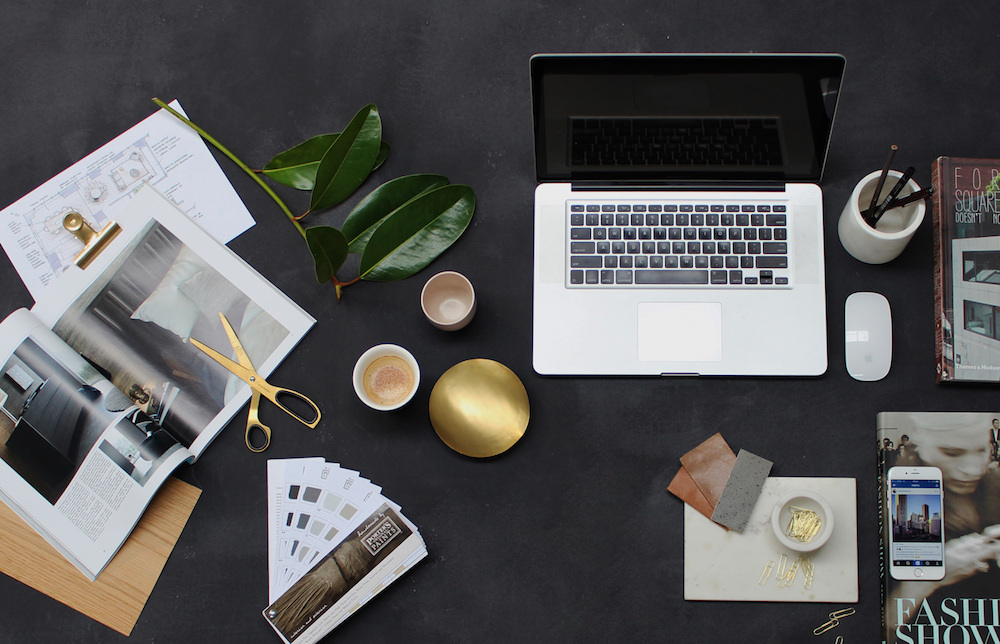
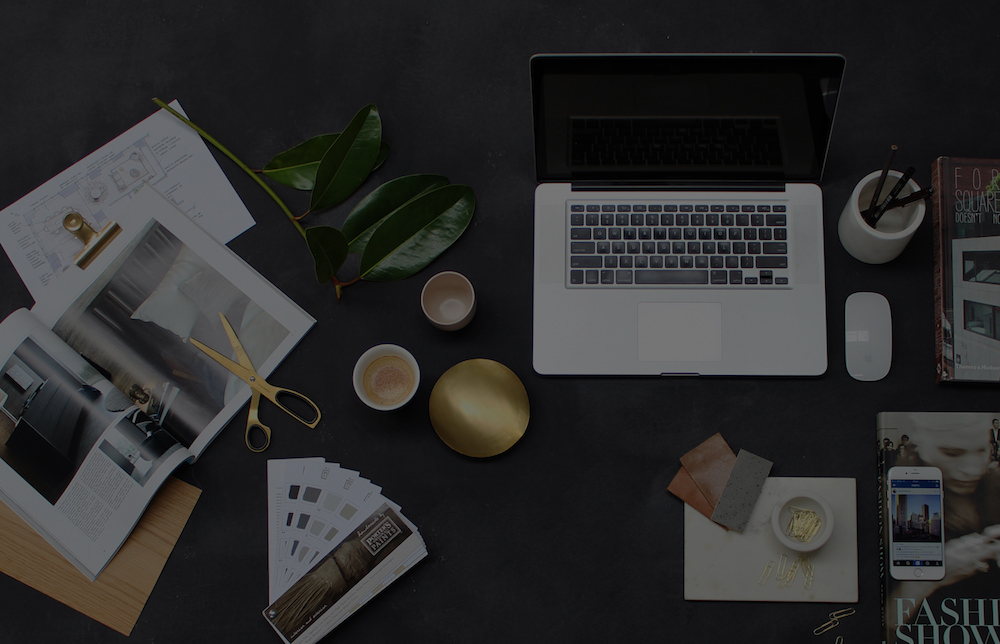
Fix background and video position
Based on feedback [1]

diff --git a/app/index.html b/app/index.html
@@ -18,9 +18,9 @@
     <!-- build:css -->
     <link rel="stylesheet" type="text/css" href="https://cdnjs.cloudflare.com/ajax/libs/slick-carousel/1.5.9/slick.css"/>
     <link rel="stylesheet" type="text/css" href="https://cdnjs.cloudflare.com/ajax/libs/slick-carousel/1.5.9/slick-theme.css"/>
-    <link rel="stylesheet" href="styles/main.css"/>
     <link rel="stylesheet" href="https://cdnjs.cloudflare.com/ajax/libs/material-design-lite/1.0.6/material.min.css"/>
     <link rel="stylesheet" href="https://fonts.googleapis.com/icon?family=Material+Icons"/>
+    <link rel="stylesheet" href="styles/main.css"/>
     <!-- endbuild -->
     
   </head>
@@ -55,8 +55,8 @@
         <div class="mdl-layout__header-row hide-on-scroll">
           <!-- Navigation -->
           <nav class="mdl-navigation">
-            <a class="mdl-navigation__link" href="">FEATURES</a>
-            <a class="mdl-navigation__link" href="">REVIEW</a>
+            <a class="mdl-navigation__link link-on-hover" href="">FEATURES</a>
+            <a class="mdl-navigation__link link-on-hover" href="">REVIEW</a>
             <a class="mdl-navigation__link" href="">
               <button class="mdl-button mdl-js-button mdl-button--raised mdl-button--primary mdl-js-ripple-effect sign-in-button">
                 SIGN IN
@@ -66,9 +66,15 @@
         </div>
       </header>
       <main class="mdl-layout__content">
+        <div class="mdl-grid" id="main">
+          <div class="mdl-cell mdl-cell--12-col" id="title">
+            <h2 class="bold">Your Social Media Command Center</h2>
+            <h5>Manage multiple social media accounts in one place, collaboratively</h5>
+          </div>
+        </div>
         <div class="content">
           <!-- Main slide -->
-          <div id="main-slide">
+          <!-- <div id="main-slide">
             <div class="middle-slide" id="title">
               <h2 class="bold">Your Social Media Command Center</h2>
               <h5>Manage multiple social media accounts in one place, collaboratively</h5>
@@ -79,7 +85,7 @@
                 Your browser does not support the video tag.
               </video>
             </div>
-          </div>
+          </div> -->
 
           <!-- Features part -->
           <div class="mdl-color--white" id="features">
@@ -87,7 +93,7 @@
             <div class="mdl-grid" id="features-grid">
               <div class="mdl-cell mdl-cell--4-col mdl-cell--1-col-phone" id="feature-01">
                 <img class="screen-shoot" src="images/feature01.png"/>
-                <h3 class="feature-name">SCHEDULE & PUBLISH</h3>
+                <h3 class="feature-name">SCHEDULE</h3>
                 <div class="feature-detail">
                   Arrange contents at once and you're done for the week.<br>
                   We'll publish them while you're busy on important stuff.

diff --git a/app/styles/main.scss b/app/styles/main.scss
@@ -4,16 +4,6 @@
 $blue-color: #0091ea;
 
 body {
-  background: #fafafa;
-  font-family: 'Material Icons';
-  font-style: normal;
-  font-weight: 400;
-  src: url(https://example.com/MaterialIcons-Regular.eot); /* For IE6-8 */
-  src: local('Material Icons'),
-       local('MaterialIcons-Regular'),
-       url(https://example.com/MaterialIcons-Regular.woff2) format('woff2'),
-       url(https://example.com/MaterialIcons-Regular.woff) format('woff'),
-       url(https://example.com/MaterialIcons-Regular.ttf) format('truetype'); 
   color: white;
 }
 
@@ -23,6 +13,7 @@ body {
 }
 
 .sign-in-button {
+  background-color: $blue-color !important;
   color: white;
 }
 
@@ -30,32 +21,26 @@ body {
   background: url('../images/bg.jpg') center / cover;
 }
 
-/* Main slide show */
-#main-slide {
-  margin: 70px 0;
+.link-on-hover:hover {
+  color: $blue-color;
+  font-weight: bold;
 }
 
-.slick-slide {
-  text-align: center;
-}
-
-.slick-prev:before {
-  position: absolute;
-  left: 100px;
-}
-
-.slick-next:before {
-  position: absolute;
-  right: 100px;
+/* Title */
+#main {
+  display: table;
 }
 
 #title {
-  padding-top: 100px;
+  height: 550px;
+  text-align: center;
+  display: table-cell;
+  vertical-align: middle;
 }
 
 /* Features */
 #features {
-  padding: 30px;
+  padding: 10px 30px 20px;
   color: $blue-color;
 }
 

diff --git a/app/styles/main.css b/app/styles/main.css
@@ -1,11 +1,4 @@
 body {
-  background: #fafafa;
-  font-family: 'Material Icons';
-  font-style: normal;
-  font-weight: 400;
-  src: url(https://example.com/MaterialIcons-Regular.eot);
-  /* For IE6-8 */
-  src: local("Material Icons"), local("MaterialIcons-Regular"), url(https://example.com/MaterialIcons-Regular.woff2) format("woff2"), url(https://example.com/MaterialIcons-Regular.woff) format("woff"), url(https://example.com/MaterialIcons-Regular.ttf) format("truetype");
   color: white;
 }
 
@@ -15,6 +8,7 @@ body {
 }
 
 .sign-in-button {
+  background-color: #0091ea !important;
   color: white;
 }
 
@@ -22,32 +16,26 @@ body {
   background: url("../images/bg.jpg") center/cover;
 }
 
-/* Main slide show */
-#main-slide {
-  margin: 70px 0;
+.link-on-hover:hover {
+  color: #0091ea;
+  font-weight: bold;
 }
 
-.slick-slide {
-  text-align: center;
-}
-
-.slick-prev:before {
-  position: absolute;
-  left: 100px;
-}
-
-.slick-next:before {
-  position: absolute;
-  right: 100px;
+/* Title */
+#main {
+  display: table;
 }
 
 #title {
-  padding-top: 100px;
+  height: 550px;
+  text-align: center;
+  display: table-cell;
+  vertical-align: middle;
 }
 
 /* Features */
 #features {
-  padding: 30px;
+  padding: 10px 30px 20px;
   color: #0091ea;
 }
 

diff --git a/app/scripts/main.js b/app/scripts/main.js
@@ -11,17 +11,6 @@ $(document).ready(function() {
     }
   });
 
-
-  // Main slide show
-  $('#main-slide').slick({
-    infinite: true,
-    speed: 500,
-    fade: true,
-    cssEase: 'linear',
-    autoplay: true,
-    autoplaySpeed: 1000
-  });
-
   // Hide feature detail text
   $('.feature-detail').hide();
   $('#features-grid').children('div')
